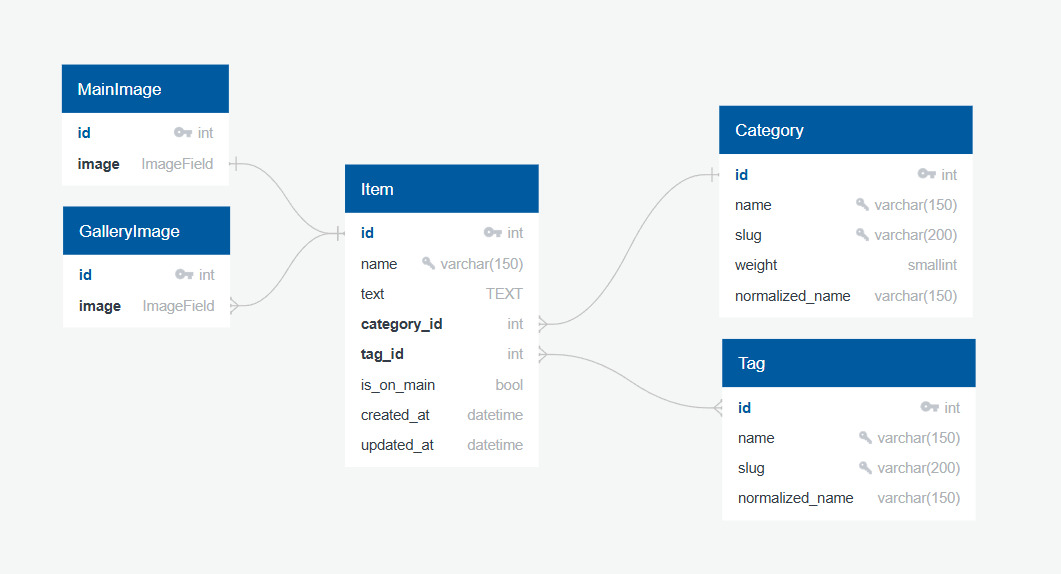
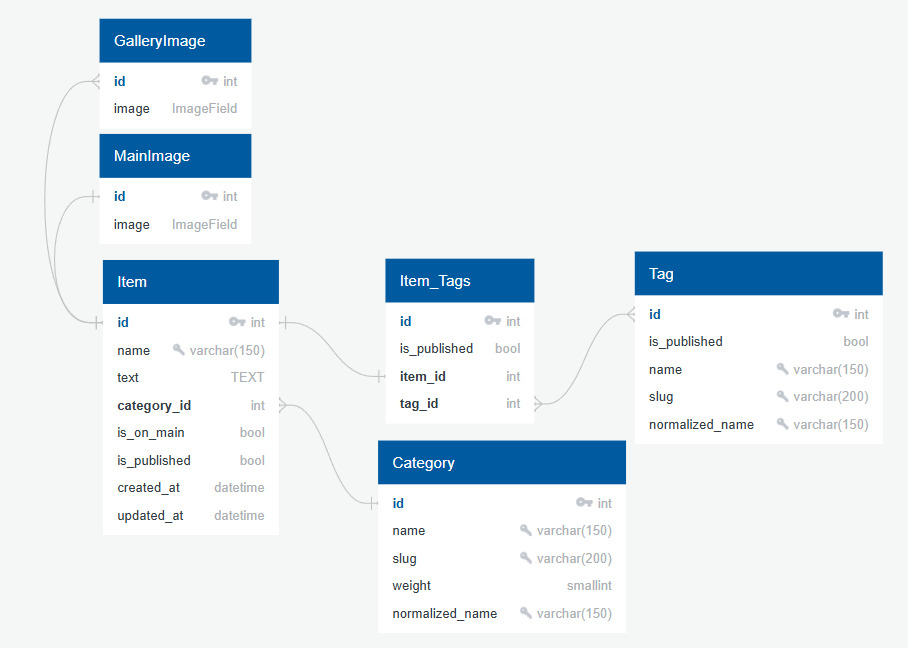
fix for issue (обновил er, вынес менеджеры в managers.py)

diff --git a/lyceum/templates/base.html b/lyceum/templates/base.html
@@ -9,10 +9,11 @@
     <link rel="manifest" href="{% static "files/favicon/site.webmanifest" %}" />
     <meta charset="UTF-8">
     <meta name="viewport" content="width=device-width, initial-scale=1.0">
-    {% block head %}<title>Document</title>{% endblock %}
-    
     <link rel="stylesheet" href="{% static "css/bootstrap.min.css" %}">
     <link rel="stylesheet" href="{% static "css/main.css" %}">
+    {% block head %}<title>Document</title>{% endblock %}
+    
+
 </head>
 <body>
     <div class="wrapper">

diff --git a/lyceum/catalog/models.py b/lyceum/catalog/models.py
@@ -5,6 +5,7 @@ from django.utils.safestring import mark_safe
 from django_ckeditor_5.fields import CKEditor5Field
 from sorl.thumbnail import get_thumbnail
 
+from catalog.managers import ItemManager, PublishedTagManager
 from catalog.validators import ValidateMustContain
 from core.models import (
     AbstractImage,
@@ -14,35 +15,6 @@ from core.models import (
 
 
 __all__ = []
-
-
-class ItemManager(django.db.models.Manager):
-    def published(self):
-        return (
-            self.get_queryset()
-            .filter(is_published=True, category__is_published=True)
-            .select_related("category", "main_image")
-            .prefetch_related(
-                django.db.models.Prefetch(
-                    "tags",
-                    queryset=Tag.objects.published().defer("is_published"),
-                ),
-            )
-            .only(
-                "name",
-                "text",
-                "category__name",
-                "main_image__image",
-            )
-        )
-
-    def on_main(self):
-        return self.published().filter(is_on_main=True).order_by("name")
-
-
-class PublishedTagManager(django.db.models.Manager):
-    def published(self):
-        return self.get_queryset().filter(is_published=True)
 
 
 class Tag(AbstractModel, AbstractModelNormalizedName):

diff --git a/lyceum/catalog/managers.py b/lyceum/catalog/managers.py
@@ -1,0 +1,34 @@
+import django.db.models
+
+import catalog.models
+
+
+class ItemManager(django.db.models.Manager):
+    def published(self):
+        return (
+            self.get_queryset()
+            .filter(is_published=True, category__is_published=True)
+            .select_related("category", "main_image")
+            .prefetch_related(
+                django.db.models.Prefetch(
+                    "tags",
+                    queryset=catalog.models.Tag.objects.published().defer(
+                        "is_published",
+                    ),
+                ),
+            )
+            .only(
+                "name",
+                "text",
+                "category__name",
+                "main_image__image",
+            )
+        )
+
+    def on_main(self):
+        return self.published().filter(is_on_main=True).order_by("name")
+
+
+class PublishedTagManager(django.db.models.Manager):
+    def published(self):
+        return self.get_queryset().filter(is_published=True)
